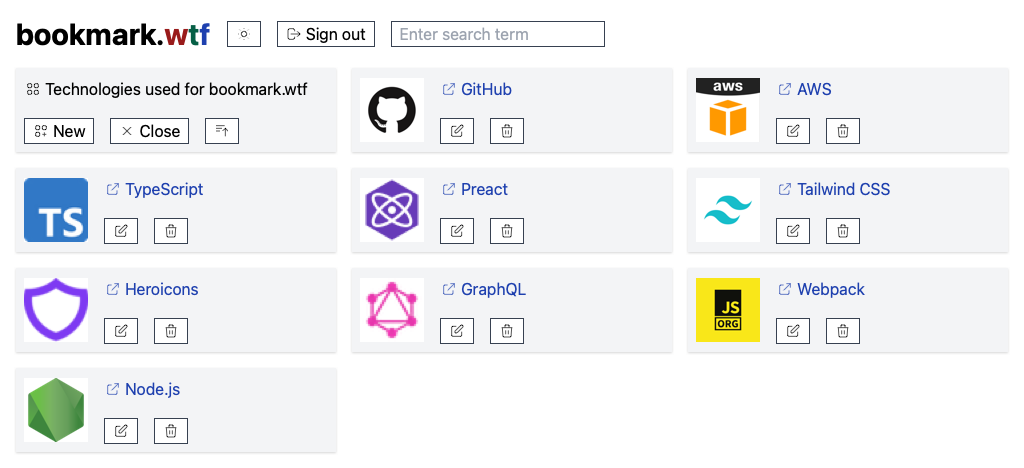
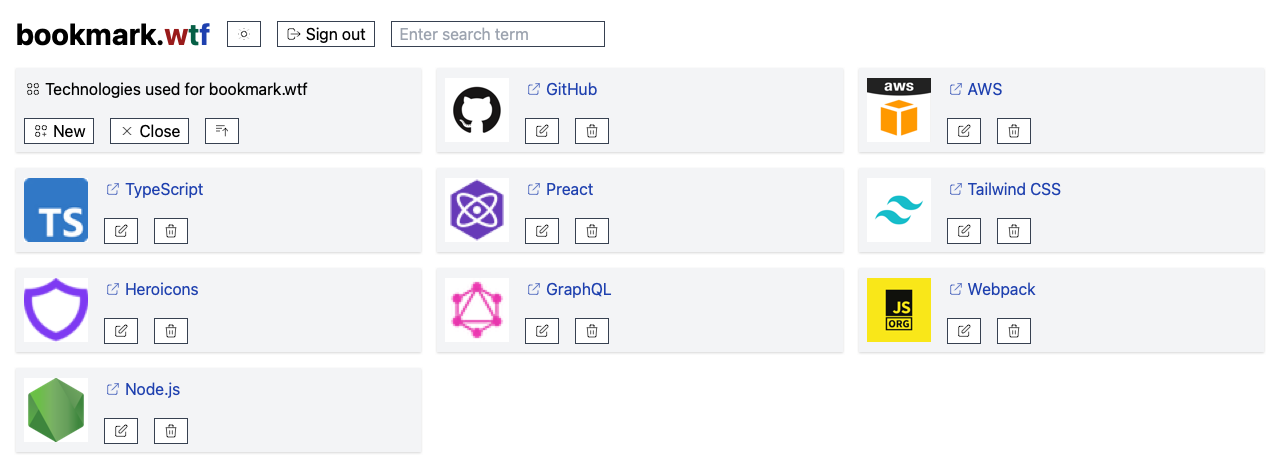
Update screenshots

diff --git a/src/e2e-tests/take-screenshot.ts b/src/e2e-tests/take-screenshot.ts
@@ -6,7 +6,7 @@ export async function takeScreenshot(
   origin: string,
   colorScheme: 'light' | 'dark'
 ): Promise<void> {
-  await api.page.setViewportSize({width: 1024, height: 200});
+  await api.page.setViewportSize({width: 1280, height: 200});
 
   await api.page.goto(origin + '/9803bde974539a8992c0515b28db439b', {
     waitUntil: 'networkidle',
